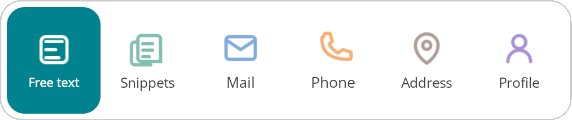
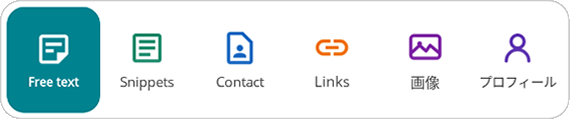
business: 日本語スクリーンショットとカテゴリタブ画像を更新

diff --git a/business/index.html b/business/index.html
@@ -6,7 +6,7 @@
   <meta name="color-scheme" content="light only">
   <title>MyQuickPaste</title>
   <meta data-i18n-attr="content:meta.description" name="description">
-  <!-- SEO 多言語 hreflang 設定 -->
+  <!-- SEO 多言誁Ehreflang 設宁E-->
   <link rel="alternate" hreflang="x-default" href="https://goodrabbit-inc.github.io/myquickpaste/business/" />
   <link rel="alternate" hreflang="ja" href="https://goodrabbit-inc.github.io/myquickpaste/business/?lang=ja" />
   <link rel="alternate" hreflang="en" href="https://goodrabbit-inc.github.io/myquickpaste/business/?lang=en" />
@@ -340,7 +340,7 @@
   </aside>
 
   <script src="js/stores.js?v=5"></script>
-  <script src="js/screenshots.js?v=4"></script>
+  <script src="js/screenshots.js?v=5"></script>
   <script src="js/i18n.js?v=19"></script>
 </body>
 </html>

diff --git a/business/js/screenshots.js b/business/js/screenshots.js
@@ -4,7 +4,7 @@
   var PHONE_TYPES = ["freetext", "snippets", "images", "profile", "profile-edit"];
   var FALLBACK_LANG = "en";
   var DEFAULT_CATE = "images/ss-cate.png";
-  var CACHE_BUST = "20260725";
+  var CACHE_BUST = "20260725a";
 
   function setImgSrc(img, candidates) {
     var idx = 0;
